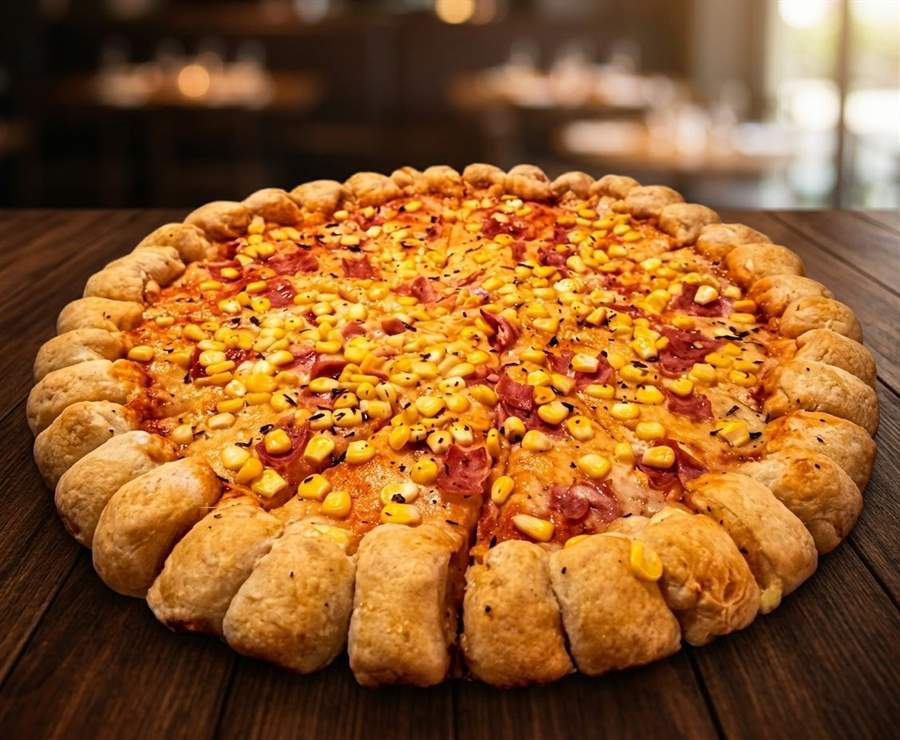
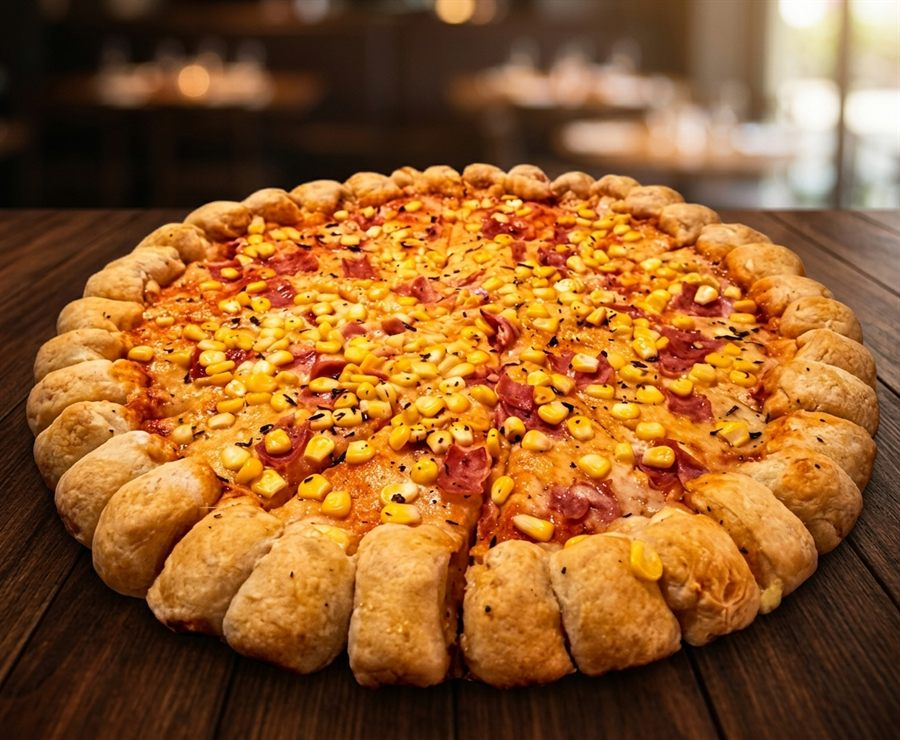
Add files via upload

diff --git a/js/data.js b/js/data.js
@@ -12,11 +12,11 @@
      Fuente: Brief-Menu-Digital-IA.md (anexo 8). Precios en USD. */
   const DEFAULT = {
     contacto: {
-      whatsapp: '584140000000',                 // ← EDITAR: número real con código de país, sin +
+      whatsapp: '541149705616',                  // código de país + número, sin +
       whatsappMsg: 'Hola Las Virginias 👋 quiero hacer un pedido:',
       instagram: 'lasvirginias.pizza',
-      telefono: '+58 414 000 0000',              // ← EDITAR
-      horario: 'Mar a Dom · 5:00 pm – 10:00 pm',
+      telefono: '+54 11 4970 5616',
+      horario: 'Mier a Dom · 5:00 pm – 10:00 pm',
       zona: 'Lagunillas, Zulia · Delivery y take away'
     },
     bordeNota: 'Cualquier pizza puede pedirse con <strong>borde relleno de queso</strong> — el sello de la casa.',
@@ -24,12 +24,12 @@
       {
         id: 'napoli', nombre: 'Napoli', ico: 'porcion',
         desc: 'La clásica de siempre: salsa, queso y ganas de repetir.',
-        mediana: 7, familiar: 9, foto: '', badge: '', disponible: true
+        mediana: 7, familiar: 9, foto: 'assets/pizza-napoli.jpg', badge: '', disponible: true
       },
       {
         id: 'jamon-queso', nombre: 'Jamón y Queso', ico: 'porcion',
         desc: 'La más pedida de la casa. Simple, generosa y siempre buena idea.',
-        mediana: 8, familiar: 10, foto: '', badge: 'top', disponible: true
+        mediana: 8, familiar: 10, foto: 'assets/pizza-jamon-queso.jpg', badge: 'top', disponible: true
       },
       {
         id: 'tequepizza', nombre: 'Tequepizza', ico: 'queso',
@@ -39,12 +39,12 @@
       {
         id: 'salchipizza', nombre: 'Salchipizza', ico: 'porcion',
         desc: 'Con salchicha y su toque de salsa tártara. Distinta, sabrosa y con actitud.',
-        mediana: 12, familiar: 14, foto: '', badge: '', disponible: true
+        mediana: 12, familiar: 14, foto: 'assets/pizza-salchipizza.jpg', badge: '', disponible: true
       },
       {
         id: 'cuatro-estaciones', nombre: 'Cuatro Estaciones', ico: 'porcion',
         desc: 'Cuatro sabores en una: tocineta, maíz, pimentón y cebolla. Para los que no saben decidir.',
-        mediana: 10, familiar: 12, foto: 'assets/pizza-gemini.jpg', badge: '', disponible: true
+        mediana: 10, familiar: 12, foto: 'assets/pizza-cuatro-estaciones.jpg', badge: '', disponible: true
       }
     ],
     adicionales: [
@@ -104,7 +104,8 @@
      ============================================================ */
   const ICON_PATHS = {
     porcion: '<path d="M12 3.5c4.5 0 8.3 2 10 4.2L12 20.5 2 7.7C3.7 5.5 7.5 3.5 12 3.5Z"/><circle cx="9" cy="9.5" r=".6" fill="currentColor" stroke="none"/><circle cx="13.5" cy="8.5" r=".6" fill="currentColor" stroke="none"/><circle cx="11.5" cy="13" r=".6" fill="currentColor" stroke="none"/>',
-    queso: '<path d="M3 15.5 15 6c2.8.5 5 2.5 6 5.5L9 20.5c-3-.6-5.2-2.4-6-5Z"/><circle cx="9" cy="13.5" r="1"/><circle cx="13" cy="11.5" r="1"/><circle cx="7" cy="16.5" r=".7"/>',
+    pizza: '<circle cx="12" cy="12" r="9"/><circle cx="12" cy="12" r="6.2"/><circle cx="10" cy="10.2" r="1.05" fill="currentColor" stroke="none"/><circle cx="14.2" cy="12" r="1.05" fill="currentColor" stroke="none"/><circle cx="10.7" cy="14.4" r=".9" fill="currentColor" stroke="none"/>',
+    queso: '<path d="M3.8 16.2 18.5 7.6a1.6 1.6 0 0 1 2.4 1.4v6.2a1.6 1.6 0 0 1-1.6 1.6H5.4a1.6 1.6 0 0 1-1.6-1.6Z"/><circle cx="9" cy="13.7" r="1.1"/><circle cx="13.8" cy="12.5" r="1"/><circle cx="17" cy="14.4" r=".8"/>',
     tomate: '<circle cx="12" cy="14" r="6.5"/><path d="M12 7.5c0-2 1.5-3 3-3M12 7.5c0-1.5-1.2-2.4-2.6-2.4"/>',
     champinon: '<path d="M5 12a7 7 0 0 1 14 0Z"/><path d="M10 12v4.5a2 2 0 0 0 4 0V12"/>',
     hoja: '<path d="M5 19C5 11 11 5 19 5c0 8-6 14-14 14Z"/><path d="M9 15 5 19"/>',

diff --git a/index.html b/index.html
@@ -35,9 +35,6 @@
         <a href="#arma">Arma tu pizza</a>
         <a href="#contacto">Cómo pedir</a>
       </nav>
-      <a class="btn btn-wa btn-sm" id="wa-header" href="#" target="_blank" rel="noopener">
-        <span class="wa-ico"></span> Pedir
-      </a>
       <button class="menu-btn" id="menu-btn" aria-label="Abrir menú">☰</button>
     </div>
   </header>
@@ -70,7 +67,6 @@
         <p class="hero-meta" id="hero-meta"><!-- lugar + horario por JS --></p>
       </div>
       <div class="hero-foto-wrap">
-        <img class="hero-sello" src="assets/sello.png" alt="De nuestra casa para la tuya" />
         <div class="hero-foto" id="hero-foto">
           <img class="hero-slide is-active" src="assets/pizza-tequepizza.jpg" alt="Tequepizza de Las Virginias, con borde de tequeño relleno de queso" />
         </div>
@@ -109,7 +105,7 @@
         <p>La estrella de la casa. Nuestro borde no se rellena solo: lleva la idea del <strong>tequeño relleno de queso</strong> alrededor de toda la pizza.</p>
         <p class="frase">Pizza + tequeño. Porque una sola cosa nunca fue suficiente.</p>
         <div class="teque-precios" id="teque-precios"><!-- precios por JS --></div>
-        <a class="btn btn-queso btn-lg" id="wa-teque" href="#" target="_blank" rel="noopener">Quiero una Tequepizza</a>
+        <button class="btn btn-queso btn-lg" id="wa-teque" type="button" data-add="tequepizza">Quiero una Tequepizza</button>
       </div>
       <div class="teque-foto-wrap">
         <img class="teque-foto" src="assets/pizza-tequepizza.jpg" alt="Tequepizza con borde de tequeño" />

diff --git a/css/styles.css b/css/styles.css
@@ -173,7 +173,6 @@ html { accent-color: var(--rojo); }
 }
 .hero-slide.is-active { opacity: 1; transform: scale(1); }
 .hero-mascota { position: absolute; bottom: -22px; left: -5%; width: 38%; max-width: 180px; filter: drop-shadow(0 12px 18px rgba(41,35,31,.28)); rotate: -6deg; }
-.hero-sello { position: absolute; top: -18px; right: -4%; width: 28%; max-width: 128px; filter: drop-shadow(0 8px 14px rgba(41,35,31,.22)); rotate: 8deg; }
 
 /* Una sola entrada autorada */
 @media (prefers-reduced-motion: no-preference) {
@@ -602,6 +601,7 @@ html { accent-color: var(--rojo); }
   .menu-btn { display: block; }
   .hero-grid { grid-template-columns: 1fr; text-align: center; }
   .hero-foto-wrap { order: -1; }
+  .hero-logo { display: block; margin-left: auto; margin-right: auto; }
   .hero-cta { justify-content: center; }
   .hero-meta { justify-content: center; }
   .hero-sub { margin-left: auto; margin-right: auto; }

diff --git a/js/cart.js b/js/cart.js
@@ -78,7 +78,7 @@
   root.id = 'lv-cart-root';
   root.innerHTML = `
     <button id="lvFab" class="lv-fab empty" type="button" aria-label="Tu pedido">
-      <span class="lv-fab-ico">${icon('porcion')}</span>
+      <span class="lv-fab-ico">${icon('pizza')}</span>
       <span class="lv-fab-main">
         <span class="lv-fab-label">Haz tu pedido</span>
         <span class="lv-fab-sub" hidden></span>
@@ -305,7 +305,7 @@
     if (cart.length === 0 && drinkQty === 0) {
       drawerBody.innerHTML = `
         <div class="lv-empty">
-          <div class="lv-empty-ico">${icon('porcion')}</div>
+          <div class="lv-empty-ico">${icon('pizza')}</div>
           <p><b>Tu pedido está vacío</b></p>
           <p class="muted">Elige una pizza del menú para empezar a armarlo.</p>
           <button type="button" class="btn btn-rojo" data-see-menu>Ver el menú</button>

diff --git a/js/public.js b/js/public.js
@@ -54,8 +54,7 @@
     data = d;
 
     // WhatsApp (dependen de data.contacto)
-    setWa('wa-header'); setWa('wa-hero');
-    setWa('wa-teque', 'quiero una Tequepizza 🧀');
+    setWa('wa-hero');
     setWa('wa-arma', 'quiero armar mi pizza:');
 
     // Metadato del hero (lugar)
@@ -190,7 +189,7 @@
     if (!frame) return;
     const fotos = [
       { src: 'assets/pizza-tequepizza.jpg', alt: 'Tequepizza de Las Virginias, con borde de tequeño relleno de queso' },
-      { src: 'assets/pizza-gemini.jpg', alt: 'Pizza Cuatro Estaciones de Las Virginias' },
+      { src: 'assets/pizza-cuatro-estaciones.jpg', alt: 'Pizza Cuatro Estaciones de Las Virginias' },
       { src: 'assets/pizza-tequepizza-maiz.jpg', alt: 'Pizza casera con borde relleno de queso y maíz' },
       { src: 'assets/pizza-tocineta-maiz.jpg', alt: 'Pizza casera con tocineta y maíz' }
     ];
